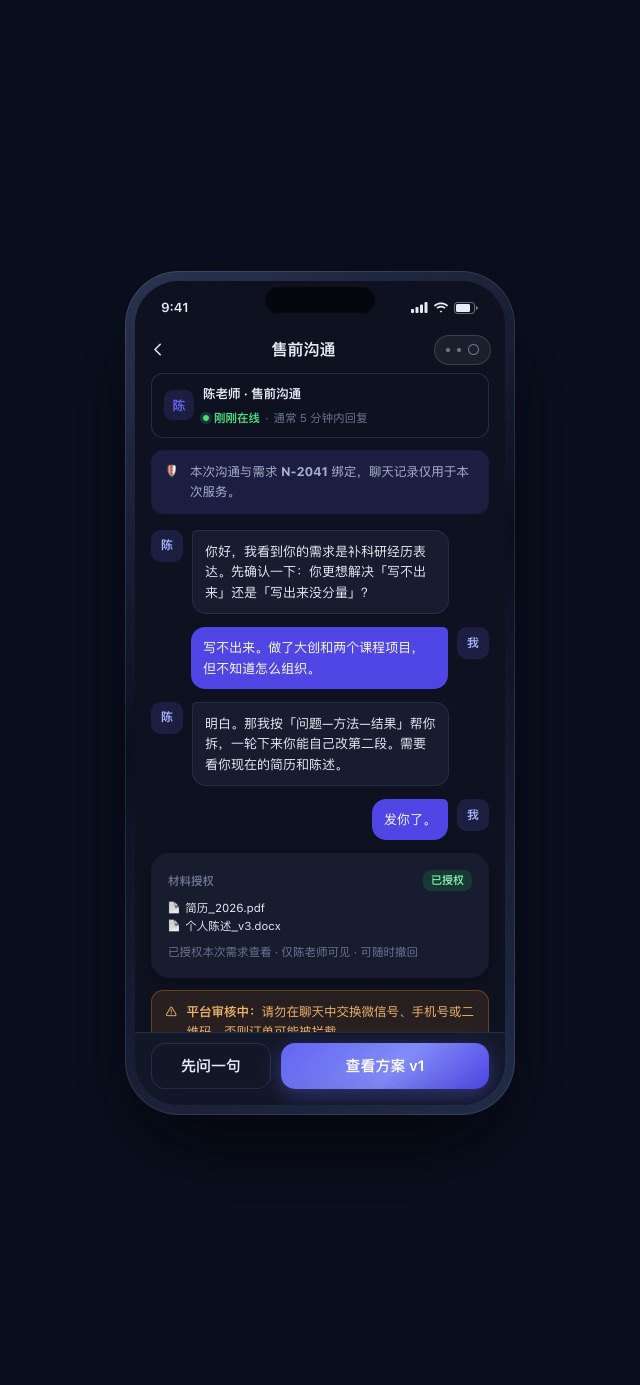
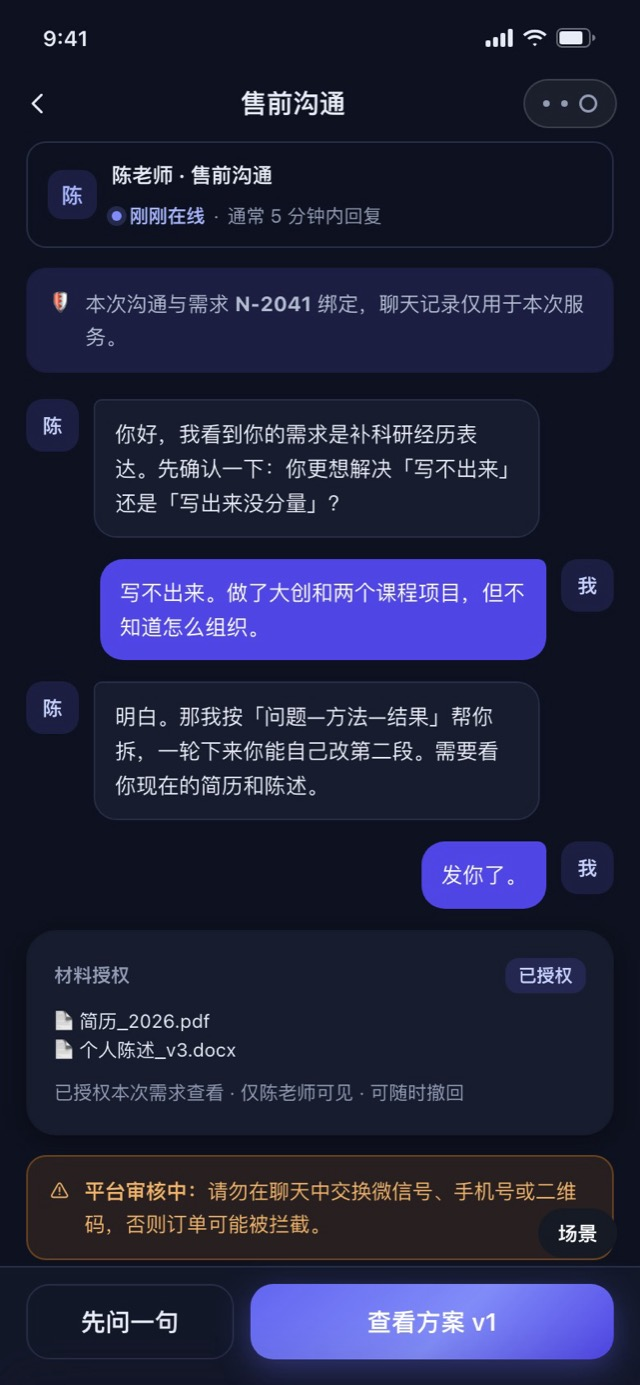
字体颜色两套主题全量同步：清除残留绿色，统一紫色系；修复 21 处按钮交互（补 setAdminTab/setPick，后台四标签补齐内容）；全站 WCAG 对比度达标

diff --git a/assets/theme.css b/assets/theme.css
@@ -6,7 +6,7 @@
   --accent: #5a37d6;
   --ink: #1a1626;
   --ink-2: #5f5872;
-  --ink-3: #9b95ad;
+  --ink-3: #6f6887;
   --bg: #f7f5fc;
   --card: #ffffff;
   --line: #ece7f7;
@@ -22,10 +22,10 @@
   --warn-bg: #fff8e6;
   --warn-line: #f3d68d;
   --warn-ink: #8a5a00;
-  --danger: #d93f3f;
+  --danger: #c02f2f;
   --danger-soft: #fdeceb;
-  --ok-soft: #eefbf3;
-  --ok-ink: #12a150;
+  --ok-soft: #f0ebfe;
+  --ok-ink: #5a37d6;
   --nav-bg: rgba(244,245,247,.92);
   --sheet: #ffffff;
   --chip: #f2eefb;
@@ -204,6 +204,7 @@ a { color: inherit; text-decoration: none; }
 .tab { flex: 1; display: flex; flex-direction: column; align-items: center; gap: 2px; font-size: 10.5px; color: var(--ink-3); font-weight: 500; }
 .tab svg { width: 23px; height: 23px; }
 .tab.active { color: var(--brand); font-weight: 600; }
+html[data-theme="dark"] .tab.active { color: var(--accent); }
 /* ---------- 徽标 ---------- */
 .badge {
   display: inline-flex; align-items: center; gap: 3px; padding: 2.5px 8px; border-radius: 8px;
@@ -216,8 +217,8 @@ a { color: inherit; text-decoration: none; }
 .tag { display: inline-block; padding: 3px 8px; border-radius: 7px; background: var(--fill); color: var(--ink-2); font-size: 11.5px; }
 /* 事实 / 推断 / 待核实 —— 两版共用语义色 */
 .ev { display: inline-flex; padding: 1.5px 6px; border-radius: 5px; font-size: 10px; font-weight: 600; vertical-align: middle; }
-.ev.fact { background: #e8f2ff; color: #1d6fd4; }
-.ev.infer { background: #f0ebff; color: #6a4bd6; }
+.ev.fact { background: #e8f2ff; color: #1a5fb4; }
+.ev.infer { background: #f0ebff; color: #5a37d6; }
 .ev.todo { background: var(--warn-bg); color: var(--warn-ink); }
 /* ---------- 首页 ---------- */
 .hero {
@@ -396,7 +397,7 @@ html[data-theme="dark"] {
   --brand: #6366f1; --brand-2: #818cf8; --brand-3: #4f46e5;
   --brand-soft: rgba(99, 102, 241, .16);
   --accent: #a5b4fc;
-  --ink: #e8ecf6; --ink-2: #a9b3c9; --ink-3: #6b7690;
+  --ink: #e8ecf6; --ink-2: #b3bdd1; --ink-3: #939db5;
   --bg: #0e1220; --card: #171c2e; --line: #262d45;
   --radius: 18px; --radius-l: 22px; --radius-s: 12px; --radius-btn: 14px;
   --shadow: 0 4px 16px rgba(0, 0, 0, .35);
@@ -404,7 +405,7 @@ html[data-theme="dark"] {
   --shadow-brand: 0 6px 20px rgba(99, 102, 241, .4);
   --warn-bg: rgba(232, 135, 30, .12); --warn-line: rgba(232, 135, 30, .34); --warn-ink: #f0b46a;
   --danger: #f87171; --danger-soft: rgba(248, 113, 113, .12);
-  --ok-soft: rgba(99, 102, 241, .16); --ok-ink: #a5b4fc;
+  --ok-soft: rgba(99, 102, 241, .18); --ok-ink: #c7d2fe;
 }
 html[data-theme="dark"] .hero {
   background: linear-gradient(150deg, #1e1b4b, #312e81 55%, #4338ca);
@@ -415,17 +416,18 @@ html[data-theme="dark"] .hero .btn.primary { background: #fff; color: #312e81; }
 html[data-theme="dark"] .hero .btn.line { background: rgba(255,255,255,.1); border-color: rgba(255,255,255,.28); color: #fff; }
 html[data-theme="dark"] .price { color: #a5b4fc; }
 html[data-theme="dark"] .badge { background: rgba(99,102,241,.18); color: #c7d2fe; }
-html[data-theme="dark"] .badge.green { background: rgba(34,197,94,.16); color: #86efac; }
+html[data-theme="dark"] .badge.green { background: rgba(99,102,241,.18); color: #c7d2fe; }
 html[data-theme="dark"] .badge.orange { background: rgba(232,135,30,.16); color: #f0b46a; }
 html[data-theme="dark"] .badge.red { background: rgba(248,113,113,.16); color: #fca5a5; }
-html[data-theme="dark"] .badge.gray { background: rgba(255,255,255,.08); color: #8b95ab; }
+html[data-theme="dark"] .badge.gray { background: rgba(255,255,255,.08); color: #9aa4bb; }
 html[data-theme="dark"] .ev.fact { background: rgba(96,165,250,.18); color: #93c5fd; }
 html[data-theme="dark"] .ev.infer { background: rgba(167,139,250,.18); color: #c4b5fd; }
 html[data-theme="dark"] .tag { background: rgba(255,255,255,.06); color: #a9b3c9; }
 html[data-theme="dark"] .case-logo { background: rgba(255,255,255,.07); color: #c7d2fe; }
 html[data-theme="dark"] .progress { background: rgba(255,255,255,.1); }
-html[data-theme="dark"] .steps4 .dot { background: rgba(255,255,255,.1); color: #6b7690; }
+html[data-theme="dark"] .steps4 .dot { background: rgba(255,255,255,.1); color: #9aa4bb; }
 html[data-theme="dark"] .steps4 .st.now .dot { background: #0e1220; color: #a5b4fc; }
+html[data-theme="dark"] .steps4 .st.done .dot { background: var(--brand-3); color: #fff; }
 html[data-theme="dark"] .steps4 .line { background: rgba(255,255,255,.12); }
 html[data-theme="dark"] .input, html[data-theme="dark"] textarea.input, html[data-theme="dark"] .choice {
   background: rgba(255,255,255,.04); border-color: #2d344d; color: #e8ecf6;
@@ -435,17 +437,26 @@ html[data-theme="dark"] .dr-item:hover, html[data-theme="dark"] .dr-item.on { ba
 html[data-theme="dark"] .nav-capsule { background: rgba(255,255,255,.06); border-color: rgba(255,255,255,.14); }
 html[data-theme="dark"] .tabbar, html[data-theme="dark"] .actionbar { background: #131829; }
 html[data-theme="dark"] .statusbar { color: #e8ecf6; }
+/* 深色下所有「品牌色文字」统一用 accent，保证半透明底上的可读性 */
+html[data-theme="dark"] .chat-head .ava,
+html[data-theme="dark"] .list-row .ico,
+html[data-theme="dark"] .tab.active,
+html[data-theme="dark"] .tab:active svg,
+html[data-theme="dark"] .dr-item.on { color: var(--accent); }
+html[data-theme="dark"] .badge,
+html[data-theme="dark"] .badge.green { color: #c7d2fe; }
+html[data-theme="dark"] .alert.danger { border-color: rgba(248,113,113,.32); }
 
 /* ---------- 在线状态（闲鱼式） ---------- */
 .presence { display: flex; align-items: center; gap: 5px; font-size: 11.5px; flex-wrap: wrap; }
 .presence i { width: 6px; height: 6px; border-radius: 50%; flex: none; }
-.presence .dot-on { background: #21c06a; box-shadow: 0 0 0 3px rgba(33, 192, 106, .16); }
+.presence .dot-on { background: var(--brand); box-shadow: 0 0 0 3px var(--brand-soft); }
 .presence .dot-off { background: var(--ink-3); }
-.presence .on { color: #15965a; font-weight: 600; }
+.presence .on { color: var(--brand-3); font-weight: 600; }
 .presence .off { color: var(--ink-3); }
 .presence .sep { color: var(--ink-3); }
-html[data-theme="dark"] .presence .on { color: #4ade80; }
-html[data-theme="dark"] .presence .dot-on { background: #4ade80; box-shadow: 0 0 0 3px rgba(74, 222, 128, .16); }
+html[data-theme="dark"] .presence .on { color: var(--accent); }
+html[data-theme="dark"] .presence .dot-on { background: var(--brand-2); box-shadow: 0 0 0 3px rgba(129, 140, 248, .2); }
 .presence.lg { font-size: 12.5px; }
 
 /* 会话头部：在线状态条 */

diff --git a/assets/app.js b/assets/app.js
@@ -41,6 +41,10 @@ const S = {
   paid: false,
   deliveryState: 0,    // 0 服务中 / 1 待确认 / 2 已完成
   schoolCat: "全部",
+  adminTab: "审核队列",
+  grade: "大三",
+  english: "CET-6",
+  hasProof: "已有",
 };
 
 /* ---------------- 图标 ---------------- */
@@ -194,7 +198,7 @@ function pageProfile() {
         <input class="input" value="${st.major}" /></div>
       <div class="field"><label>年级</label>
         <div class="two-col">
-          <div class="choice active">大三</div><div class="choice">大四</div>
+          ${["大三", "大四"].map((g) => `<div class="choice ${S.grade === g ? "active" : ""}" onclick="setPick('grade','${g}')">${g}</div>`).join("")}
         </div>
       </div>
       <div class="field"><label>目标入学年份</label>
@@ -214,12 +218,12 @@ function pageProfile() {
       </div>
       <div class="field"><label>英语成绩</label>
         <div class="two-col">
-          <div class="choice active">CET-6</div><div class="choice">CET-4</div>
+          ${["CET-6", "CET-4"].map((g) => `<div class="choice ${S.english === g ? "active" : ""}" onclick="setPick('english','${g}')">${g}</div>`).join("")}
         </div>
         <input class="input mt8" value="512" />
       </div>
       <div class="field"><label>是否已有排名证明</label>
-        <div class="two-col"><div class="choice active">已有</div><div class="choice">待开</div></div>
+        <div class="two-col">${["已有", "待开"].map((g) => `<div class="choice ${S.hasProof === g ? "active" : ""}" onclick="setPick('hasProof','${g}')">${g}</div>`).join("")}</div>
       </div>`;
   } else if (step === 2) {
     body = `
@@ -865,6 +869,8 @@ function fillBadRank() {
   const t = document.getElementById("rankTotal"); if (t) t.value = "10";
 }
 function setGoal(g) { S.goal = g; render(); }
+function setPick(field, v) { S[field] = v; render(); }
+function setAdminTab(t) { S.adminTab = t; render(); }
 function toggleVer() { S.proposalVer = S.proposalVer === "v2" ? "v1" : "v2"; render(); }
 function upgradeV2() { S.proposalVer = "v2"; render(); toast("方案已更新为 v2：价格 ¥420，需你重新确认"); }
 function switchProvider() { S.activeProvider = "wang"; go("#/provider"); render(); }
@@ -1181,7 +1187,7 @@ function pageWorkbench() {
 
 function pageAdmin() {
   const a = M.admin;
-  const tab = S.adminTab || "queue";
+  const tab = S.adminTab || a.tabs[0];
   return `
   <div class="page">
     <div class="quick-chips" style="overflow-x:auto">
@@ -1217,11 +1223,39 @@ function pageAdmin() {
             <button class="btn xs line" onclick="event.stopPropagation();toast('已记录：转入人工处置')">转入处置</button>
           </div>
         </div>`).join("")}
+    ` : tab === "订单" ? `
+      <div class="alert mt12"><span class="ico">📦</span>
+        <span>审核员<b>看不到完整聊天记录</b>，只看到命中规则的片段；无退款权限。</span></div>
+      ${[
+        ["T-20261030-118", "材料诊断 · 机械 · 985 学硕", "¥399", "待确认", "gray"],
+        ["T-20261029-097", "复试模拟 · 3 次", "¥259", "服务中", "green"],
+        ["T-20261027-063", "材料诊断 · 能源", "¥399", "已完成", "gray"],
+      ].map(([id, item, amt, st, tone]) => `
+        <div class="card tap" onclick="toast('演示：${id} 的订单详情与履约记录')">
+          <div class="row between"><span class="tiny dim num">${id}</span><span class="badge ${tone}">${st}</span></div>
+          <div class="row between mt8"><span class="small bold">${item}</span><span class="price" style="font-size:15px">${amt}</span></div>
+        </div>`).join("")}
+    ` : tab === "资讯" ? `
+      <div class="alert mt12"><span class="ico">📰</span>
+        <span>资讯只做<b>原样转载</b>并标注来源；不得改写院校原文，日期统一来源为准。</span></div>
+      ${["某高校机械工程学院 2027 推免通知", "某高校能源与动力工程学院 推免日程", "某高校材料科学与工程学院 复试办法"].map((t, i) => `
+        <div class="card tap" onclick="toast('演示：编辑${i === 0 ? "新建" : "复核"}资讯条目')">
+          <div class="row between"><span class="small bold" style="max-width:220px">${t}</span><span class="badge ${i === 2 ? "gray" : "green"}">${i === 2 ? "待复核" : "已发布"}</span></div>
+          <div class="tiny dim mt6">来源：学院官网 · 转载不改写</div>
+        </div>`).join("")}
     ` : `
-      <div class="card mt12 center" style="padding:30px 18px">
-        <div class="small dim">「${tab}」模块演示数据未展开</div>
-        <div class="tiny dim mt8">本页只演示审核队列，其余标签为 P11 的既有权限位</div>
-      </div>
+      <div class="alert mt12"><span class="ico">⚙</span>
+        <span>配置项变更<b>全部留痕</b>；名额上限、价格、抽成比例仅超级管理员可改。</span></div>
+      ${[
+        ["服务者名额上限 U", "3 单 / 周", "超管"],
+        ["材料诊断定价", "¥399", "超管"],
+        ["方案修改次数上限", "2 次", "超管"],
+        ["审核员权限", "仅审核 · 无退款", "只读"],
+      ].map(([k, v, who]) => `
+        <div class="list-row" onclick="toast('演示：${k} 的变更需超级管理员二次确认')">
+          <div class="grow"><div class="small bold">${k}</div><div class="tiny dim">当前 ${v}</div></div>
+          <span class="badge ${who === "只读" ? "gray" : ""}">${who}</span>
+        </div>`).join("")}
     `}
 
     <div class="tiny dim center mt16">所有处置留操作记录 · 审核员无退款与全部下载权限</div>

diff --git a/assets/tokens.css b/assets/tokens.css
@@ -11,7 +11,7 @@
   --accent: #5a37d6;
   --ink: #1a1626;
   --ink-2: #5f5872;
-  --ink-3: #9b95ad;
+  --ink-3: #6f6887;
   --bg: #f7f5fc;
   --card: #ffffff;
   --line: #ece7f7;
@@ -27,10 +27,10 @@
   --warn-bg: #fff8e6;
   --warn-line: #f3d68d;
   --warn-ink: #8a5a00;
-  --danger: #d93f3f;
+  --danger: #c02f2f;
   --danger-soft: #fdeceb;
-  --ok-soft: #eefbf3;
-  --ok-ink: #12a150;
+  --ok-soft: #f0ebfe;
+  --ok-ink: #5a37d6;
   --nav-bg: rgba(247,245,252,.92);
   --sheet: #ffffff;
   --chip: #f2eefb;
@@ -43,7 +43,7 @@ html[data-theme="dark"] {
   --brand: #6366f1; --brand-2: #818cf8; --brand-3: #4f46e5;
   --brand-soft: rgba(99, 102, 241, .16);
   --accent: #a5b4fc;
-  --ink: #e8ecf6; --ink-2: #a9b3c9; --ink-3: #6b7690;
+  --ink: #e8ecf6; --ink-2: #b3bdd1; --ink-3: #939db5;
   --bg: #0e1220; --card: #171c2e; --line: #262d45;
   --radius: 18px; --radius-l: 22px; --radius-s: 12px; --radius-btn: 14px;
   --shadow: 0 4px 16px rgba(0, 0, 0, .35);
@@ -51,7 +51,7 @@ html[data-theme="dark"] {
   --shadow-brand: 0 6px 20px rgba(99, 102, 241, .4);
   --warn-bg: rgba(232, 135, 30, .12); --warn-line: rgba(232, 135, 30, .34); --warn-ink: #f0b46a;
   --danger: #f87171; --danger-soft: rgba(248, 113, 113, .12);
-  --ok-soft: rgba(99, 102, 241, .16); --ok-ink: #a5b4fc;
+  --ok-soft: rgba(99, 102, 241, .18); --ok-ink: #c7d2fe;
   --nav-bg: rgba(14, 18, 32, .9);
   --sheet: #171c2e;
   --chip: rgba(255, 255, 255, .07);
